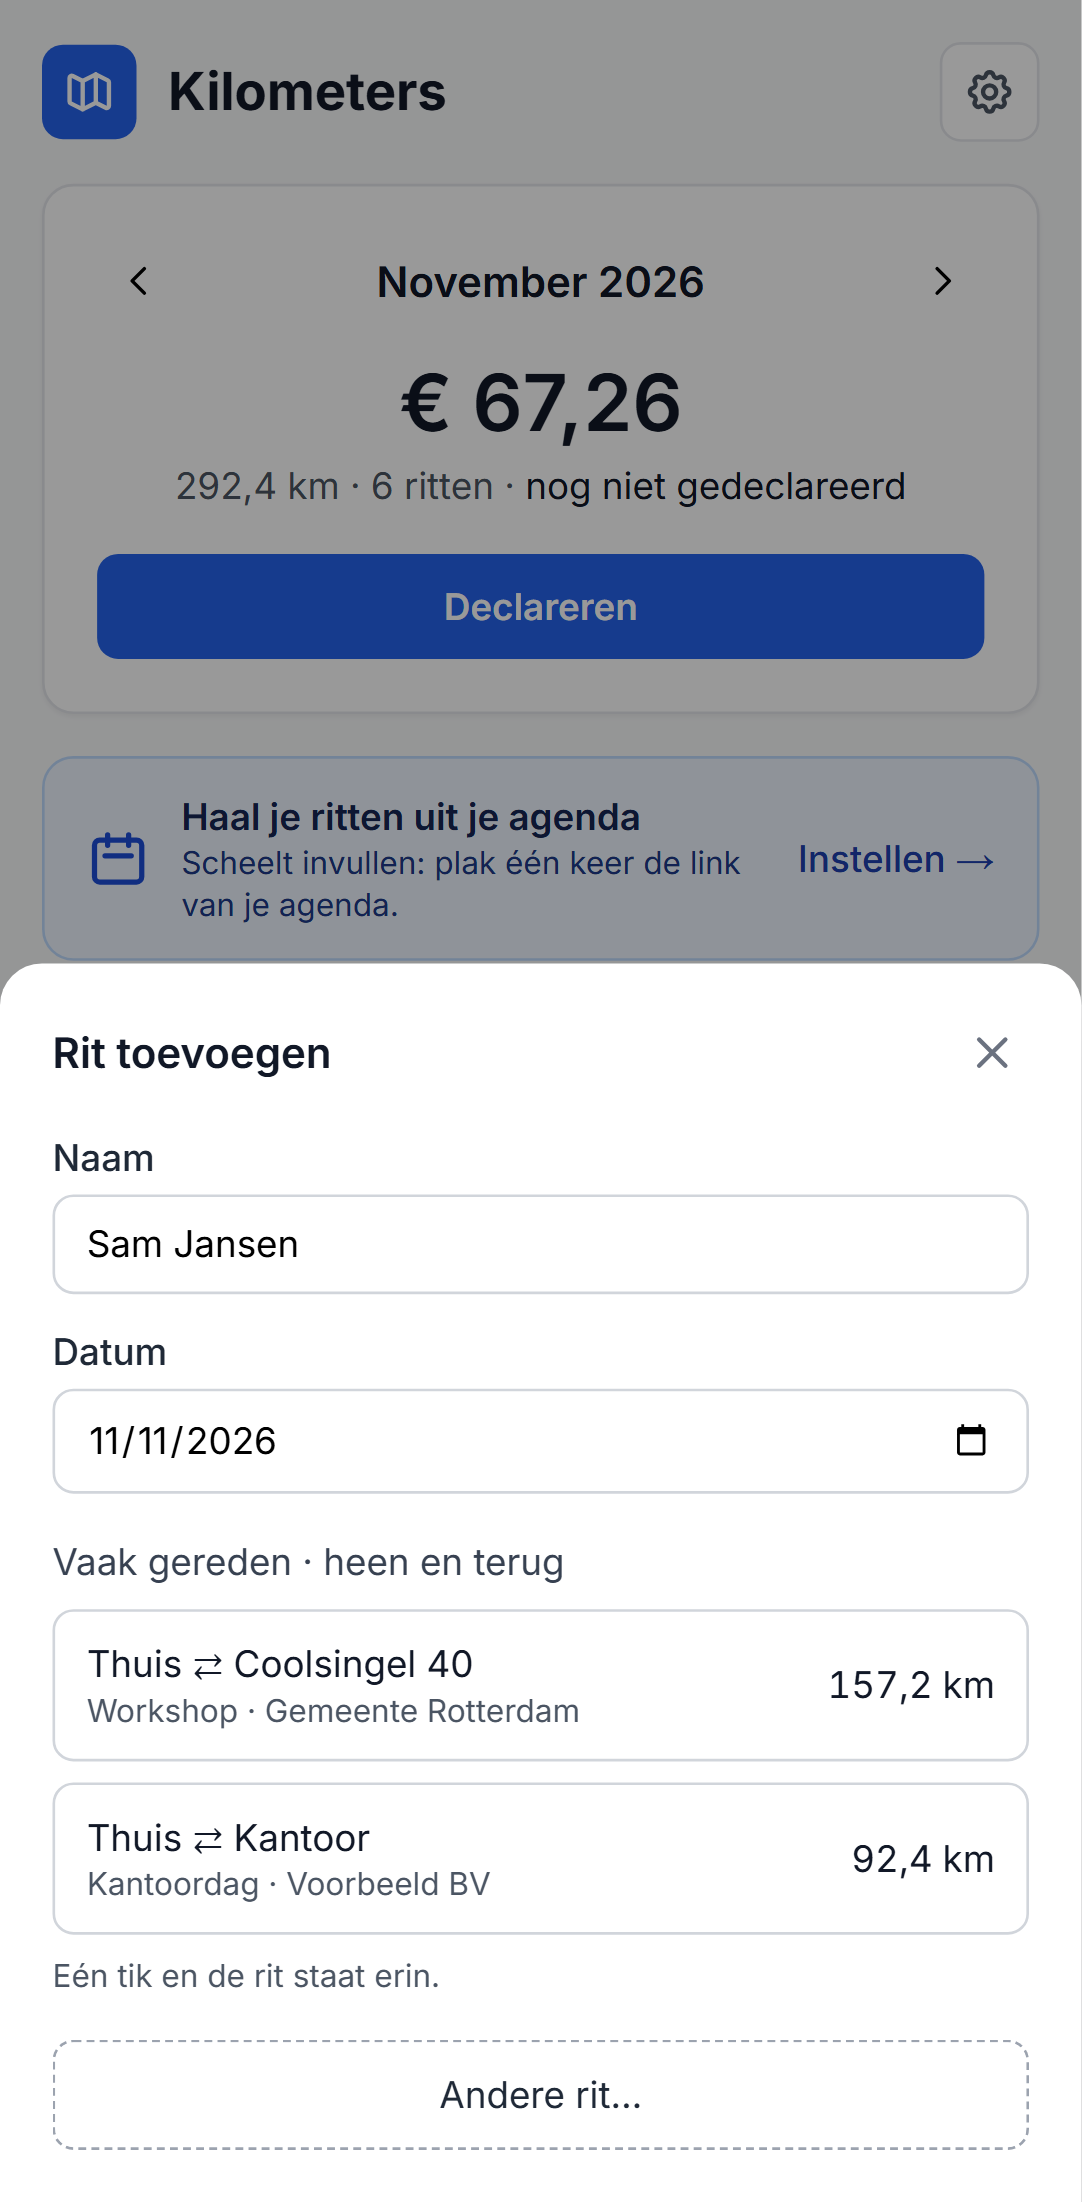
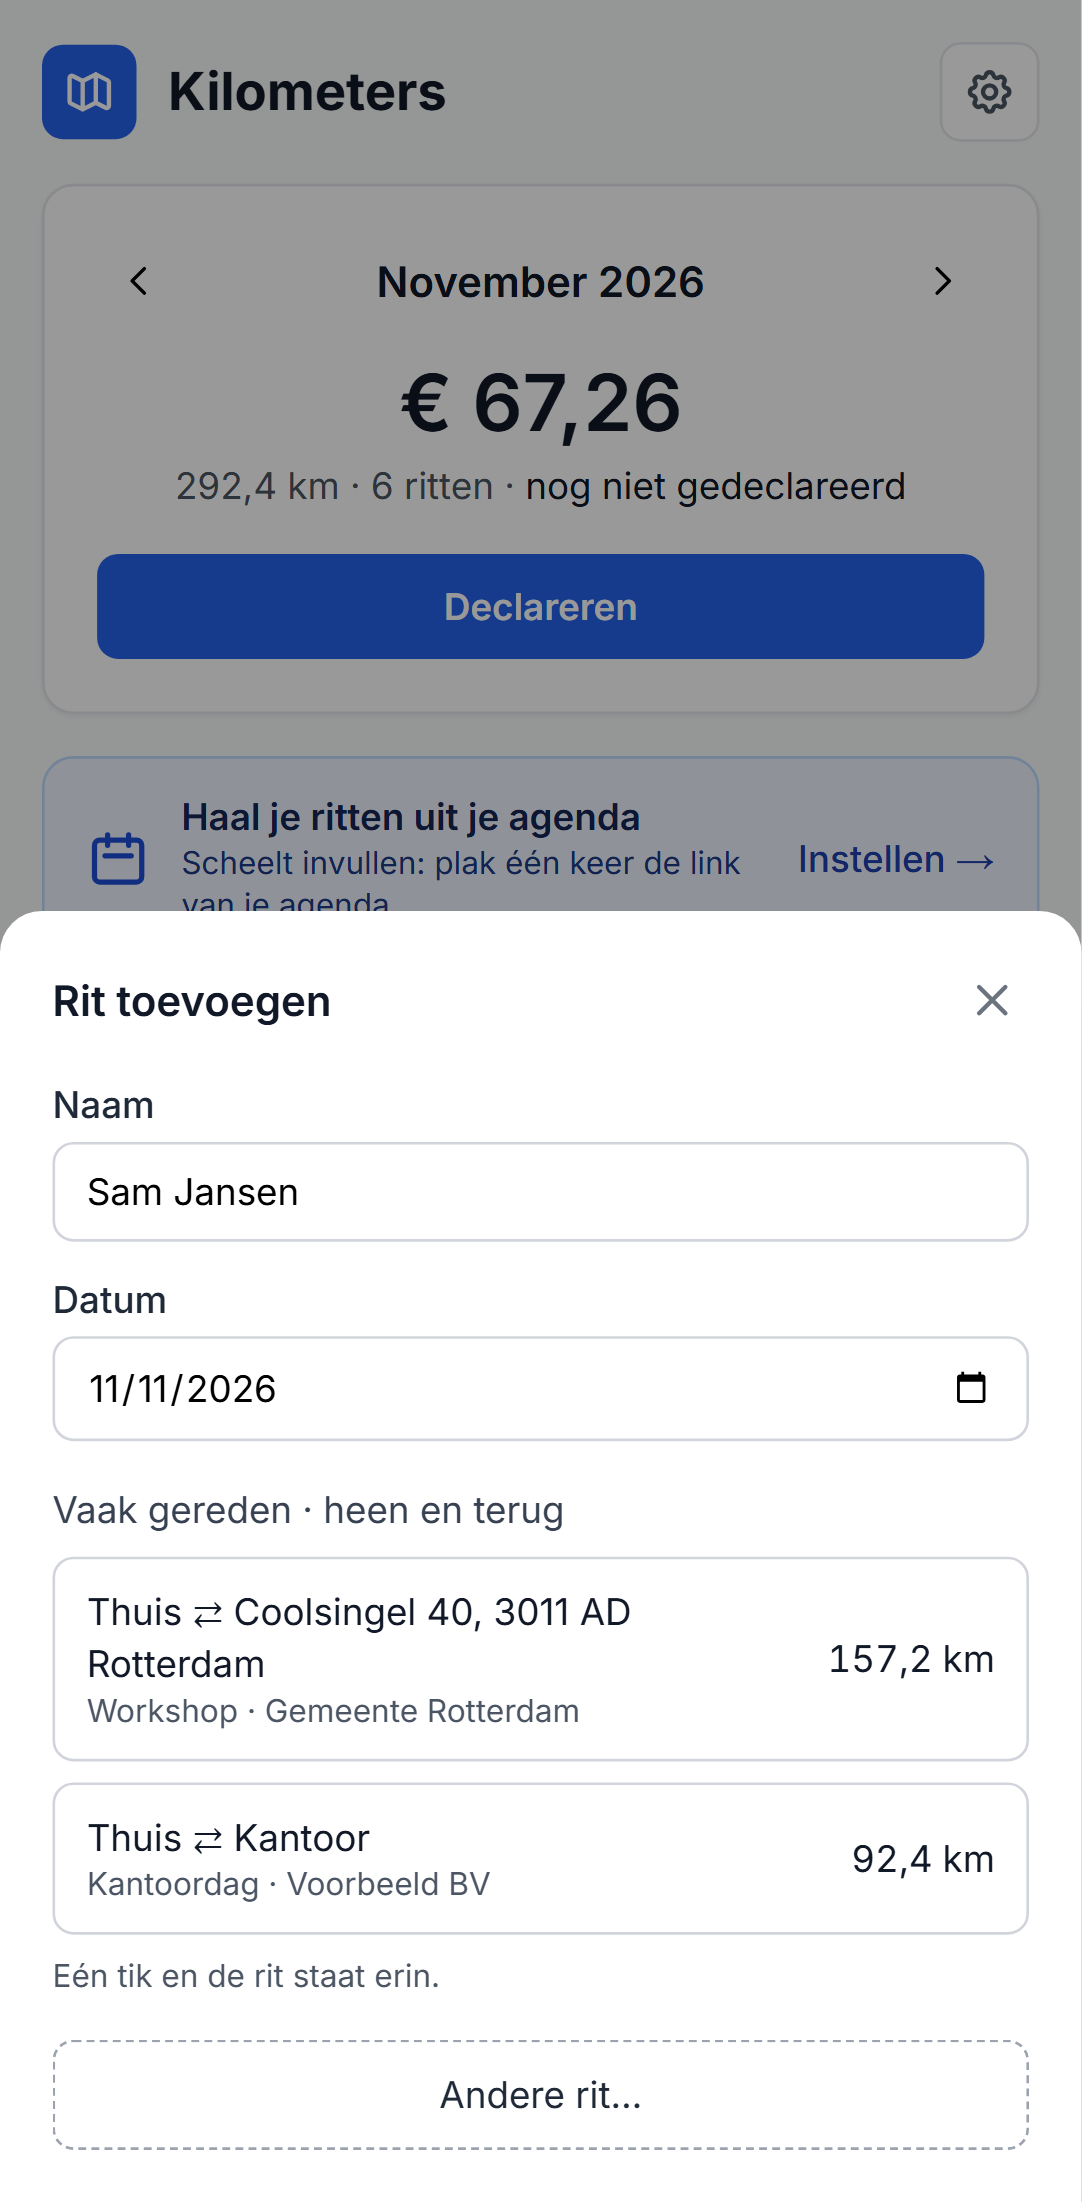
v3.5: volledig adres met postcode, overal zichtbaar
- gekozen adres wordt "Tuinstraat 3, 2514 BX Den Haag" (straat, nummer, postcode, plaats)
- dat adres staat in het zoekveld, de rittenlijst, snelkeuzes, de dagkolommen en de export
- plaatsherkenning van agenda-adressen negeert de postcode

Changed region(s): [[0.0, 0.4015, 1.0, 0.772], [0.7625, 0.7411, 0.915, 0.772], [0.8845, 0.6176, 0.915, 0.6794]]

diff --git a/components/agenda/DayCard.tsx b/components/agenda/DayCard.tsx
@@ -37,7 +37,7 @@ type Props = {
 function Endpoint({ text, location, resetLabel, onReset }: { text: string; location: Location; resetLabel: string; onReset: () => void }) {
   return (
     <p className="flex items-center gap-1 text-xs text-gray-700 px-0.5">
-      <span className="truncate">{text} <span className="font-medium">{location.shortName.split(",")[0]}</span></span>
+      <span className="min-w-0">{text} <span className="font-medium">{location.shortName}</span></span>
       <button type="button" onClick={onReset} aria-label={resetLabel} title={resetLabel} className={`ml-auto flex-shrink-0 rounded p-0.5 text-gray-500 hover:bg-gray-100 hover:text-gray-900 ${focus}`}>
         <svg className="w-3.5 h-3.5" fill="none" stroke="currentColor" viewBox="0 0 24 24" aria-hidden="true">
           <path strokeLinecap="round" strokeLinejoin="round" strokeWidth={2} d="M6 18L18 6M6 6l12 12" />
@@ -81,7 +81,7 @@ function Segmented<T extends string>({ label, options, value, onPick }: {
 
 function subText(p: PlannedEvent): string {
   const st = p.status;
-  if (st.kind === "linked") return st.location.shortName.split(",")[0];
+  if (st.kind === "linked") return st.location.shortName;
   if (st.kind === "todo") return "Waar was dit?";
   return { online: "Online", ov: "OV", thuis: "Thuis", "hele dag": "Hele dag" }[st.reason as string] ?? "Geen rit";
 }
@@ -153,7 +153,7 @@ export default function DayCard({ date, planned, legs, manualStops, selection, o
         <span className="sr-only">Rit </span>
         <span className={`tabular-nums ${leg.disabled ? "line-through" : ""}`}>{km}</span>
         <span className="truncate">{note}</span>
-        <span className="sr-only"> {leg.from.shortName.split(",")[0]} → {leg.to.shortName.split(",")[0]}{extraLabel ?? ""}</span>
+        <span className="sr-only"> {leg.from.shortName} → {leg.to.shortName}{extraLabel ?? ""}</span>
       </button>
     );
   }
@@ -176,7 +176,7 @@ export default function DayCard({ date, planned, legs, manualStops, selection, o
         className={`w-full text-left rounded-lg px-2 py-1 text-xs ${tone} ${isSel(sel) ? "ring-2 ring-blue-500" : ""} ${focus}`}
       >
         <span className="block truncate font-medium">{event.startTime ? `${fromMin(eventSpan(event).start)} ` : ""}{event.title}</span>{" "}
-        <span className="block truncate">{subText(p)}</span>
+        <span className="block line-clamp-2">{subText(p)}</span>
       </button>
     );
   }
@@ -265,7 +265,7 @@ export default function DayCard({ date, planned, legs, manualStops, selection, o
                 >
                   <span className="sr-only">Tussenstop </span>
                   <span className="block truncate font-medium">{b.stop.time} {b.stop.purpose}</span>{" "}
-                  <span className="block truncate">{b.stop.location.shortName.split(",")[0]}</span>
+                  <span className="block line-clamp-2">{b.stop.location.shortName}</span>
                 </button>
               </div>
             );

diff --git a/components/home/TripList.tsx b/components/home/TripList.tsx
@@ -30,7 +30,7 @@ type Props = {
 export default function TripList({ trips, home, office, showNames, onAdd, onEdit, onDelete }: Props) {
   const [openId, setOpenId] = useState<string | null>(null);
   const place = (l: Location) =>
-    home && samePlace(l, home) ? "Thuis" : office && samePlace(l, office) ? "Kantoor" : l.shortName.split(",")[0];
+    home && samePlace(l, home) ? "Thuis" : office && samePlace(l, office) ? "Kantoor" : l.shortName;
 
   const list = [...journeys(trips)].reverse(); // nieuwste eerst
   const weeks = new Map<string, Journey[]>();
@@ -68,7 +68,7 @@ export default function TripList({ trips, home, office, showNames, onAdd, onEdit
                   >
                     <span className="w-10 flex-shrink-0 text-xs text-gray-600">{dayLabel(j.date)}</span>
                     <span className="flex-1 min-w-0">
-                      <span className="block text-sm text-gray-900 truncate">{journeyLabel(j, place)}</span>
+                      <span className="block text-sm text-gray-900 line-clamp-2">{journeyLabel(j, place)}</span>
                       <span className="block text-xs text-gray-600 truncate">{sub}</span>
                     </span>
                     <span className="flex-shrink-0 text-sm text-gray-900 tabular-nums">
@@ -84,7 +84,7 @@ export default function TripList({ trips, home, office, showNames, onAdd, onEdit
                     <div className="mb-2 ml-11 rounded-lg bg-gray-50 p-2 space-y-1">
                       {j.trips.map((t) => (
                         <div key={t.id} className="flex items-center gap-2 text-xs text-gray-800">
-                          <span className="flex-1 min-w-0 truncate">
+                          <span className="flex-1 min-w-0 break-words">
                             {place(t.locationA)} → {place(t.locationB)} · {formatKm(t.distanceKm)} km
                           </span>
                           <button type="button" onClick={() => onEdit(t)} className="px-2 py-1 rounded text-blue-700 hover:bg-blue-50">

diff --git a/tests/e2e/trips.spec.ts b/tests/e2e/trips.spec.ts
@@ -27,7 +27,7 @@ test("eerste rit: heen en terug toevoegen en ongedaan maken", async ({ page }) =
 
   const form = page.getByRole("form", { name: "Rit toevoegen" });
   await expect(form.getByLabel("Naam")).toHaveValue("Sam Tester");
-  await expect(form.getByRole("combobox", { name: "Van" })).toHaveValue("Dam 1, Amsterdam");
+  await expect(form.getByRole("combobox", { name: "Van" })).toHaveValue("Dam 1, 1012 JS Amsterdam");
   await form.getByRole("button", { name: "Kantoor" }).nth(1).click(); // bij "Naar"
   const km = fakeRouteKm(ADDRESSES.home, ADDRESSES.office);
   await expect(form.getByLabel("Afstand")).toHaveValue(nl(km));
@@ -140,7 +140,7 @@ test("heen en terug met de terugrit naar een ander adres", async ({ page }) => {
 
   await form.getByRole("button", { name: "Ander adres" }).click();
   await form.getByRole("combobox", { name: "Terug naar" }).fill("Jaarbeursplein 6");
-  await form.getByRole("option", { name: /Jaarbeursplein 6, Utrecht/ }).click();
+  await form.getByRole("option", { name: /Jaarbeursplein 6, 3521 AL Utrecht/ }).click();
   const backKm = fakeRouteKm(ADDRESSES.office, ADDRESSES.client);
   await expect(form.getByLabel("Afstand terug")).toHaveValue(nl(backKm));
   await form.getByLabel("Afstand terug").fill("40");
@@ -148,8 +148,8 @@ test("heen en terug met de terugrit naar een ander adres", async ({ page }) => {
 
   const trips = await storedTrips(page);
   expect(trips.map((t) => `${t.locationA.shortName} → ${t.locationB.shortName} ${t.distanceKm}`)).toEqual([
-    `Dam 1, Amsterdam → Coolsingel 40, Rotterdam ${fakeRouteKm(ADDRESSES.home, ADDRESSES.office)}`,
-    "Coolsingel 40, Rotterdam → Jaarbeursplein 6, Utrecht 40",
+    `Dam 1, 1012 JS Amsterdam → Coolsingel 40, 3011 AD Rotterdam ${fakeRouteKm(ADDRESSES.home, ADDRESSES.office)}`,
+    "Coolsingel 40, 3011 AD Rotterdam → Jaarbeursplein 6, 3521 AL Utrecht 40",
   ]);
   await expect(page.getByRole("button", { name: /Thuis → Kantoor → Jaarbeursplein 6/ })).toBeVisible();
 });

diff --git a/tests/e2e/fixtures.ts b/tests/e2e/fixtures.ts
@@ -5,14 +5,15 @@ import { test as base, expect, type Page } from "@playwright/test";
  * dat houdt ze snel en voorspelbaar, en belast de gratis servers niet.
  */
 export const ADDRESSES = {
-  home: { q: "Dam 1", lat: 52.373, lon: 4.8925, road: "Dam", house_number: "1", city: "Amsterdam" },
-  office: { q: "Coolsingel 40", lat: 51.9227, lon: 4.4792, road: "Coolsingel", house_number: "40", city: "Rotterdam" },
-  client: { q: "Jaarbeursplein 6", lat: 52.0883, lon: 5.1112, road: "Jaarbeursplein", house_number: "6", city: "Utrecht" },
+  home: { q: "Dam 1", lat: 52.373, lon: 4.8925, road: "Dam", house_number: "1", postcode: "1012 JS", city: "Amsterdam" },
+  office: { q: "Coolsingel 40", lat: 51.9227, lon: 4.4792, road: "Coolsingel", house_number: "40", postcode: "3011 AD", city: "Rotterdam" },
+  client: { q: "Jaarbeursplein 6", lat: 52.0883, lon: 5.1112, road: "Jaarbeursplein", house_number: "6", postcode: "3521 AL", city: "Utrecht" },
 } as const;
 
 type Address = (typeof ADDRESSES)[keyof typeof ADDRESSES];
 
-export const shortName = (a: Address) => `${a.road} ${a.house_number}, ${a.city}`;
+/** Zoals de app een gekozen adres toont: straat, huisnummer, postcode en plaats. */
+export const shortName = (a: Address) => `${a.road} ${a.house_number}, ${a.postcode} ${a.city}`;
 
 /** Afstand die de nep-OSRM teruggeeft: hemelsbreed × 1,3, afgerond op 100 m (zelfde afronding als de app). */
 export function fakeRouteKm(a: { lat: number; lon: number }, b: { lat: number; lon: number }): number {
@@ -44,7 +45,7 @@ async function mockMapServices(page: Page): Promise<MapServices> {
         display_name: `${a.house_number}, ${a.road}, ${a.city}, Nederland`,
         type: "house",
         class: "place",
-        address: { road: a.road, house_number: a.house_number, city: a.city },
+        address: { road: a.road, house_number: a.house_number, postcode: a.postcode.replace(" ", ""), city: a.city },
       })),
     });
   });

diff --git a/components/home/AddTripPanel.tsx b/components/home/AddTripPanel.tsx
@@ -22,7 +22,7 @@ export default function AddTripPanel({ rate, userName, routes, home, office, onA
   const [name, setName] = useState(userName);
   const [showForm, setShowForm] = useState(routes.length === 0);
   const place = (l: Location) =>
-    home && samePlace(l, home) ? "Thuis" : office && samePlace(l, office) ? "Kantoor" : l.shortName.split(",")[0];
+    home && samePlace(l, home) ? "Thuis" : office && samePlace(l, office) ? "Kantoor" : l.shortName;
 
   function addRoute(r: FrequentRoute) {
     if (!name.trim()) return;
@@ -73,7 +73,7 @@ export default function AddTripPanel({ rate, userName, routes, home, office, onA
               className="flex items-center gap-3 w-full text-left rounded-lg border border-gray-300 bg-white px-3 py-2.5 hover:bg-blue-50 hover:border-blue-300 disabled:opacity-60 disabled:hover:bg-white"
             >
               <span className="flex-1 min-w-0">
-                <span className="block text-sm text-gray-900 truncate">{place(r.from)} ⇄ {place(r.to)}</span>
+                <span className="block text-sm text-gray-900 line-clamp-2">{place(r.from)} ⇄ {place(r.to)}</span>
                 <span className="block text-xs text-gray-600 truncate">{r.purpose}{r.client ? ` · ${r.client}` : ""}</span>
               </span>
               <span className="text-sm text-gray-900 tabular-nums flex-shrink-0">{formatKm(r.kmThere + r.kmBack)} km</span>

diff --git a/lib/nominatim.ts b/lib/nominatim.ts
@@ -10,6 +10,7 @@ type NominatimAddress = {
   town?: string;
   village?: string;
   municipality?: string;
+  postcode?: string;
 };
 
 type NominatimResult = {
@@ -22,20 +23,24 @@ type NominatimResult = {
   address?: NominatimAddress;
 };
 
-function buildShortName(result: NominatimResult): string {
+/** Volledig adres zoals een kaartenapp het toont: "Tuinstraat 3, 2514 BX Den Haag". */
+export function buildShortName(result: Pick<NominatimResult, "display_name" | "address">): string {
   const a = result.address;
   if (!a) return result.display_name.split(",")[0].trim();
 
   const street = a.road || a.pedestrian || a.footway || a.path;
   const number = a.house_number;
   const city = a.city || a.town || a.village || a.municipality;
+  // Nederlandse postcodes met spatie: "2514BX" → "2514 BX"
+  const postcode = a.postcode?.trim().replace(/^(\d{4})\s*([A-Za-z]{2})$/, (_, d, l) => `${d} ${l.toUpperCase()}`);
 
   const parts: string[] = [];
   if (street && number) parts.push(`${street} ${number}`);
   else if (street) parts.push(street);
   else parts.push(result.display_name.split(",")[0].trim());
 
-  if (city) parts.push(city);
+  const place = [postcode, city].filter(Boolean).join(" ");
+  if (place) parts.push(place);
 
   return parts.join(", ");
 }

diff --git a/tests/e2e/agenda.spec.ts b/tests/e2e/agenda.spec.ts
@@ -18,7 +18,7 @@ const ICS = [
 
 const CRLF = String.fromCharCode(13, 10);
 const nl = (n: number) => n.toFixed(1).replace(".", ",");
-const first = (a: (typeof ADDRESSES)[keyof typeof ADDRESSES]) => shortName(a).split(",")[0];
+const first = (a: (typeof ADDRESSES)[keyof typeof ADDRESSES]) => shortName(a);
 const home = first(ADDRESSES.home);
 const office = first(ADDRESSES.office);
 const client = first(ADDRESSES.client);
@@ -70,7 +70,7 @@ test("week afronden: vraag beantwoorden, tussenstop toevoegen en in de declarati
   await page.getByRole("combobox", { name: "Ander adres" }).fill("Jaarbeursplein 6, Utrecht");
   await page.getByRole("option", { name: new RegExp(shortName(ADDRESSES.client)) }).click();
   await expect(page.getByRole("heading", { name: "Je week is klaar" })).toBeVisible();
-  await expect(page.getByRole("status").filter({ hasText: "Lunch met Jan: Jaarbeursplein 6, Utrecht, ook voortaan" })).toBeVisible();
+  await expect(page.getByRole("status").filter({ hasText: "Lunch met Jan: Jaarbeursplein 6, 3521 AL Utrecht, ook voortaan" })).toBeVisible();
   await expect(leg(page, home, client)).toHaveCount(2); // dinsdag (workshop) en donderdag (lunch)
 
   // Zelf een tussenstop toevoegen op woensdag

diff --git a/tests/nominatim.test.ts b/tests/nominatim.test.ts
@@ -1,0 +1,25 @@
+import { describe, expect, it } from "vitest";
+import { buildShortName } from "@/lib/nominatim";
+
+const result = (address: Record<string, string>, display_name = "x") => ({ display_name, address });
+
+describe("buildShortName", () => {
+  it("geeft het volledige adres zoals een kaartenapp: straat nummer, postcode plaats", () => {
+    expect(buildShortName(result({ road: "Tuinstraat", house_number: "3", postcode: "2514BX", city: "Den Haag" }))).toBe(
+      "Tuinstraat 3, 2514 BX Den Haag"
+    );
+  });
+  it("laat een postcode met spatie zoals hij is", () => {
+    expect(buildShortName(result({ road: "Coolsingel", house_number: "40", postcode: "3011 AD", city: "Rotterdam" }))).toBe(
+      "Coolsingel 40, 3011 AD Rotterdam"
+    );
+  });
+  it("werkt ook zonder huisnummer of postcode", () => {
+    expect(buildShortName(result({ road: "Dam", town: "Amsterdam" }))).toBe("Dam, Amsterdam");
+  });
+  it("valt terug op het eerste deel van de naam als er geen straat is", () => {
+    expect(buildShortName(result({ postcode: "3521 AL", city: "Utrecht" }, "Jaarbeurs, Utrecht, Nederland"))).toBe(
+      "Jaarbeurs, 3521 AL Utrecht"
+    );
+  });
+});

diff --git a/tests/tripGenerator.test.ts b/tests/tripGenerator.test.ts
@@ -39,6 +39,10 @@ describe("pickBestMatch", () => {
     const results = [loc("Coolsingel 40, Den Haag", 0, 0), loc("Coolsingel 40, Rotterdam", 0, 0)];
     expect(pickBestMatch("Coolsingel 40, 3011 AD Rotterdam", results)?.shortName).toBe("Coolsingel 40, Rotterdam");
   });
+  it("herkent de plaats ook als de resultaten een postcode hebben", () => {
+    const results = [loc("Coolsingel 40, 2500 AA Den Haag", 0, 0), loc("Coolsingel 40, 3011 AD Rotterdam", 0, 0)];
+    expect(pickBestMatch("Coolsingel 40, Rotterdam", results)?.shortName).toBe("Coolsingel 40, 3011 AD Rotterdam");
+  });
   it("geeft niets terug als geen enkel resultaat in de gevraagde plaats ligt", () => {
     expect(pickBestMatch("Stationsplein 1, Utrecht", [loc("Stationsplein 1, Amersfoort", 0, 0)])).toBeNull();
   });
